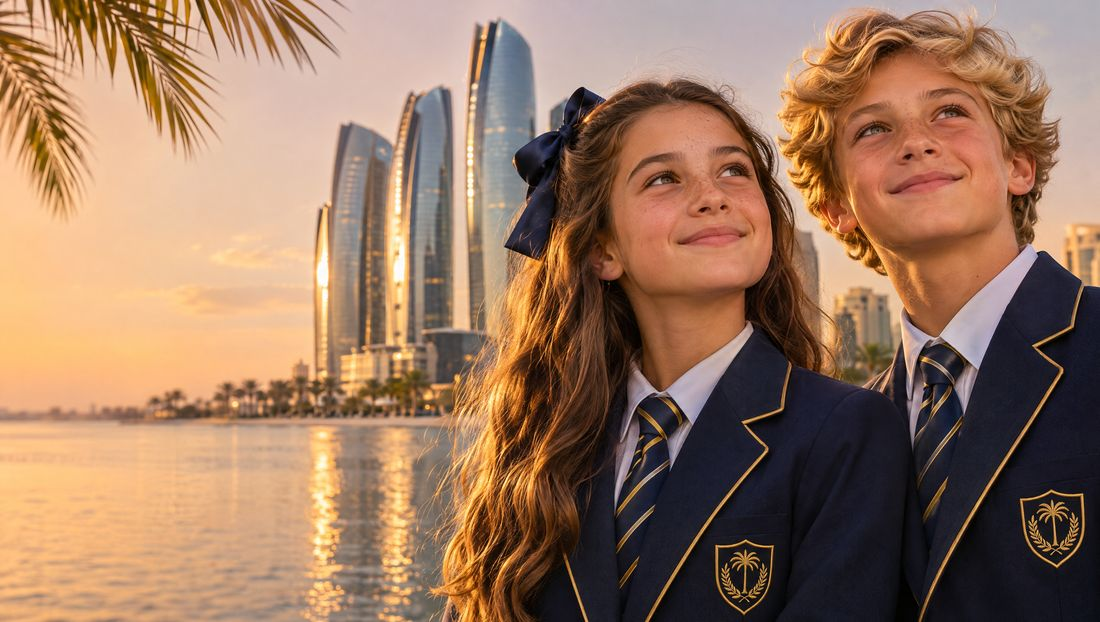
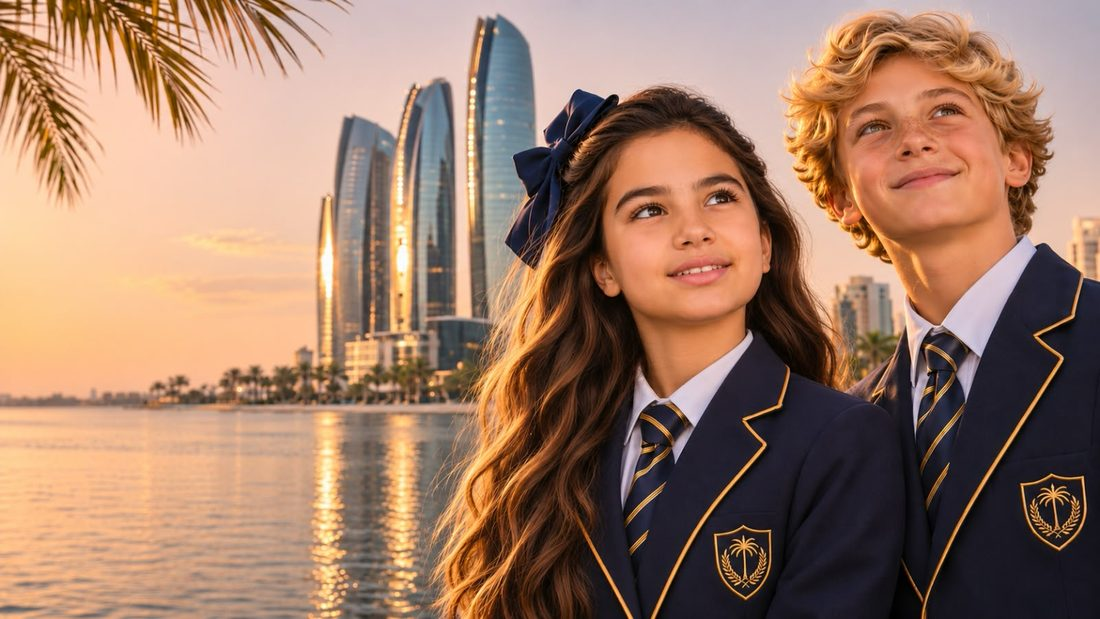
Цитаты в кавычках, новая картинка на первом экране

diff --git a/ru/index.html b/ru/index.html
@@ -54,7 +54,7 @@
 <section class="hero">
  <picture class="hero__bg">
   <source media="(max-width: 760px)" srcset="../assets/img/hero-m.jpg">
-  <img src="../assets/img/hero.jpg" width="2400" height="1357" alt="" fetchpriority="high">
+  <img src="../assets/img/hero.jpg" width="1600" height="901" alt="" fetchpriority="high">
  </picture>
  <span class="hero__pattern" aria-hidden="true"></span>
  <div class="hero__in wrap">
@@ -86,7 +86,7 @@
  <div class="wrap">
   <div class="sh"><p class="sh__label"><span class="sh__num">01</span>Наша философия</p><h2 class="sh__title">Будущее ребёнка начинается с решений, которые мы принимаем сегодня</h2></div>
   <div class="phil__grid">
-   <blockquote class="quote quote--card"><p>Ничто не раскрывает истинную сущность общества лучше, чем его отношение к детям.</p><footer>Нельсон Мандела</footer></blockquote>
+   <blockquote class="quote quote--card"><p>«Ничто не раскрывает истинную сущность общества лучше, чем его отношение к детям.»</p><footer>Нельсон Мандела</footer></blockquote>
    <div class="phil__text">
 <p>Образование — одно из наиболее значимых решений, которые принимает семья. Оно влияет не только на академическое развитие ребёнка, но и на его уверенность в себе, характер, отношения с окружающими и восприятие мира.</p>
 <p>Выбор школы в другой стране требует гораздо большего, чем сравнение рейтингов, инфраструктуры или названий программ. Необходимо понимать особенности самого ребёнка, приоритеты семьи и возможности, которые предлагают разные образовательные среды.</p>
@@ -105,7 +105,7 @@
 
 <section class="band">
  <div class="band__img"><img src="../assets/img/mosque.jpg" width="1600" height="896" alt="Мечеть шейха Зайда в Абу-Даби" loading="lazy"></div>
- <blockquote class="band__quote"><p>Лучшее применение богатства — инвестиции в создание поколений образованных и профессионально подготовленных людей.</p><footer><span aria-hidden="true"></span>Шейх Заид бин Султан Аль Нахайян<span aria-hidden="true"></span></footer></blockquote>
+ <blockquote class="band__quote"><p>«Лучшее применение богатства — инвестиции в создание поколений образованных и профессионально подготовленных людей.»</p><footer><span aria-hidden="true"></span>Шейх Заид бин Султан Аль Нахайян<span aria-hidden="true"></span></footer></blockquote>
 </section>
 
 <section class="sec uae" id="why-uae">
@@ -128,7 +128,7 @@
 <li class="point"><span class="point__n">7</span><h3>Качество жизни</h3><p>Жилые районы, пляжи, парки, культура и спорт, современная медицина и развитая индустрия гостеприимства.</p></li>
 <li class="point"><span class="point__n">8</span><h3>Видение будущего</h3><p>Долгосрочные стратегии в образовании, технологиях и экономике позволяют планировать будущее детей на годы вперёд.</p></li>
 </ol>
-  <blockquote class="quote quote--wide"><p>Будущее принадлежит тем, кто способен его представить, спроектировать и воплотить в жизнь. Будущее — это не то, чего нужно ждать. Это то, что нужно создавать.</p><footer>Шейх Мохаммед бин Рашид Аль Мактум</footer></blockquote>
+  <blockquote class="quote quote--wide"><p>«Будущее принадлежит тем, кто способен его представить, спроектировать и воплотить в жизнь. Будущее — это не то, чего нужно ждать. Это то, что нужно создавать.»</p><footer>Шейх Мохаммед бин Рашид Аль Мактум</footer></blockquote>
  </div>
 </section>
 

diff --git a/index.html b/index.html
@@ -54,7 +54,7 @@
 <section class="hero">
  <picture class="hero__bg">
   <source media="(max-width: 760px)" srcset="assets/img/hero-m.jpg">
-  <img src="assets/img/hero.jpg" width="2400" height="1357" alt="" fetchpriority="high">
+  <img src="assets/img/hero.jpg" width="1600" height="901" alt="" fetchpriority="high">
  </picture>
  <span class="hero__pattern" aria-hidden="true"></span>
  <div class="hero__in wrap">
@@ -86,7 +86,7 @@
  <div class="wrap">
   <div class="sh"><p class="sh__label"><span class="sh__num">01</span>Our Philosophy</p><h2 class="sh__title">A child&#x27;s future begins with the decisions we make today</h2></div>
   <div class="phil__grid">
-   <blockquote class="quote quote--card"><p>Nothing reveals the true character of society more clearly than the way it treats its children.</p><footer>Nelson Mandela</footer></blockquote>
+   <blockquote class="quote quote--card"><p>“Nothing reveals the true character of society more clearly than the way it treats its children.”</p><footer>Nelson Mandela</footer></blockquote>
    <div class="phil__text">
 <p>Education is one of the most significant decisions a family makes. It influences not only a child&#x27;s academic development, but also their confidence, character, relationships and understanding of the world.</p>
 <p>Choosing a school in another country requires much more than comparing rankings, facilities or curriculum names. It requires an understanding of the individual child, the family&#x27;s priorities and the opportunities offered by different educational environments.</p>
@@ -105,7 +105,7 @@
 
 <section class="band">
  <div class="band__img"><img src="assets/img/mosque.jpg" width="1600" height="896" alt="Sheikh Zayed Grand Mosque, Abu Dhabi" loading="lazy"></div>
- <blockquote class="band__quote"><p>The best use of wealth is to invest in creating generations of educated and skilled people.</p><footer><span aria-hidden="true"></span>Sheikh Zayed bin Sultan Al Nahyan<span aria-hidden="true"></span></footer></blockquote>
+ <blockquote class="band__quote"><p>“The best use of wealth is to invest in creating generations of educated and skilled people.”</p><footer><span aria-hidden="true"></span>Sheikh Zayed bin Sultan Al Nahyan<span aria-hidden="true"></span></footer></blockquote>
 </section>
 
 <section class="sec uae" id="why-uae">
@@ -128,7 +128,7 @@
 <li class="point"><span class="point__n">7</span><h3>Quality of Life</h3><p>Residential communities, beaches, parks, culture, sport, modern healthcare and a well-developed hospitality sector.</p></li>
 <li class="point"><span class="point__n">8</span><h3>A Vision Beyond Today</h3><p>Ambitious long-term strategies in education, technology and sustainability let families plan for their children&#x27;s wider future.</p></li>
 </ol>
-  <blockquote class="quote quote--wide"><p>The future belongs to those who can imagine it, design it and execute it. It is not something you await, but rather create.</p><footer>Sheikh Mohammed bin Rashid Al Maktoum</footer></blockquote>
+  <blockquote class="quote quote--wide"><p>“The future belongs to those who can imagine it, design it and execute it. It is not something you await, but rather create.”</p><footer>Sheikh Mohammed bin Rashid Al Maktoum</footer></blockquote>
  </div>
 </section>
 
